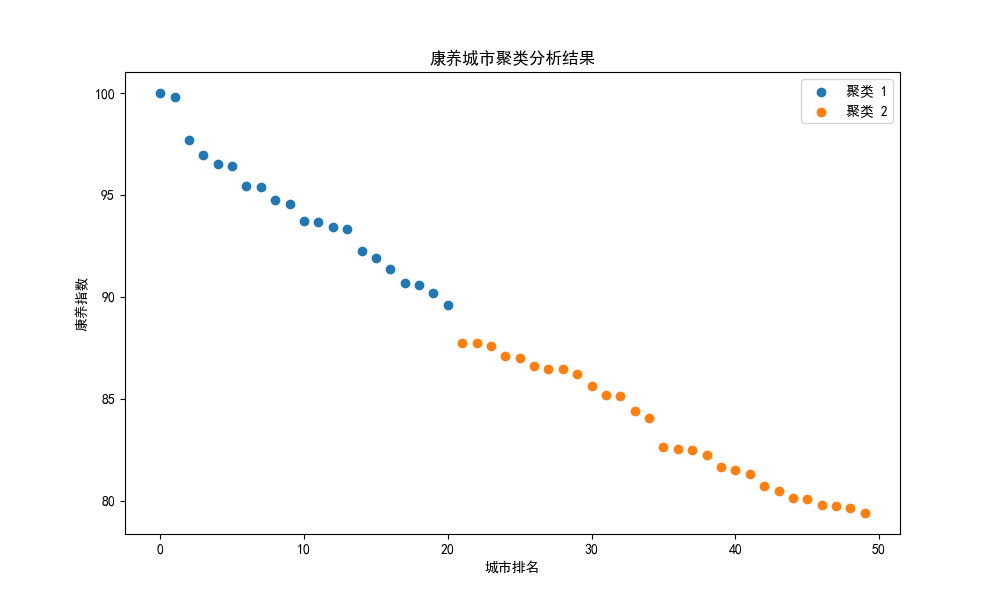
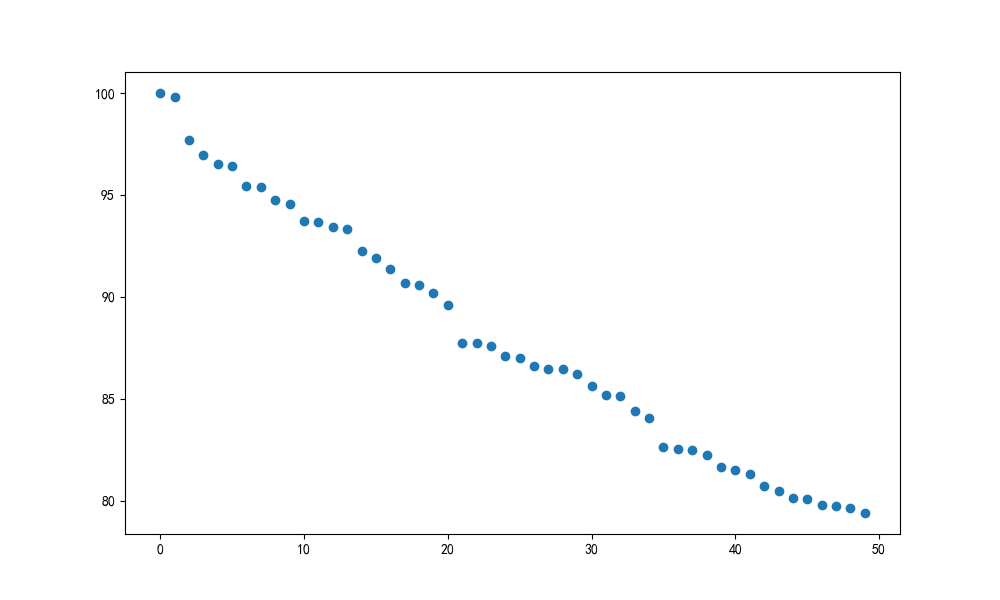
refactor(P1): 将KMeans聚类替换为DBSCAN算法，优化聚类分析
- 使用DBSCAN算法替代KMeans，以更好地处理噪声点和异常值
- 更新聚类结果的可视化和统计逻辑，确保噪声点的正确处理
- 调整相关报告和CSV文件的生成逻辑，确保数据一致性

diff --git a/CYCMCM-2025/P1.py b/CYCMCM-2025/P1.py
@@ -623,39 +623,42 @@ class KangYangResourceAnalysis:
         scaler = StandardScaler()
         data_scaled = scaler.fit_transform(data)
 
-        # 2. KMeans聚类分析
-        n_clusters_range = range(2, 6)
-        silhouette_scores = []
+        # 2. DBSCAN聚类分析
+        # 使用DBSCAN算法，eps为邻域半径，min_samples为形成核心点所需的最小样本数
+        dbscan = DBSCAN(eps=0.5, min_samples=3)
+        self.city_ranking['cluster'] = dbscan.fit_predict(data_scaled)
 
-        for n_clusters in n_clusters_range:
-            kmeans = KMeans(n_clusters=n_clusters, random_state=42)
-            cluster_labels = kmeans.fit_predict(data_scaled)
-            score = silhouette_score(data_scaled, cluster_labels)
-            silhouette_scores.append(score)
+        # 获取聚类数量
+        n_clusters = len(set(self.city_ranking['cluster'])) - (1 if -1 in self.city_ranking['cluster'] else 0)
+        print(f"\n识别出{n_clusters}个聚类")
 
-        # 选择最佳聚类数
-        best_n_clusters = n_clusters_range[np.argmax(silhouette_scores)]
+        # 如果存在噪声点（标记为-1的点），将其重新分配到最近的聚类
+        if -1 in self.city_ranking['cluster'].values:
+            noise_points = self.city_ranking[self.city_ranking['cluster'] == -1]
+            valid_clusters = self.city_ranking[self.city_ranking['cluster'] != -1]
 
-        # 使用最佳聚类数进行聚类
-        kmeans = KMeans(n_clusters=best_n_clusters, random_state=42)
-        self.city_ranking['cluster'] = kmeans.fit_predict(data_scaled)
+            for idx in noise_points.index:
+                point = data_scaled[idx]
+                distances = [np.linalg.norm(point - data_scaled[i])
+                            for i in valid_clusters.index]
+                closest_cluster = valid_clusters.iloc[np.argmin(distances)]['cluster']
+                self.city_ranking.loc[idx, 'cluster'] = closest_cluster
 
         # 3. 分析聚类结果
-        cluster_stats = self.city_ranking.groupby('cluster').agg({
+        # 排除噪声点（-1）进行统计
+        cluster_stats = self.city_ranking[self.city_ranking['cluster'] != -1].groupby('cluster').agg({
             '康养指数': ['count', 'mean', 'std', 'min', 'max']
         }).round(2)
 
         # 4. 可视化聚类结果
         plt.figure(figsize=(10, 6))
-        for i in range(best_n_clusters):
-            cluster_data = self.city_ranking[self.city_ranking['cluster'] == i]
+        # 绘制所有聚类（包括噪声点）
+        unique_clusters = self.city_ranking['cluster'].unique()
+        for cluster_id in unique_clusters:
+            cluster_data = self.city_ranking[self.city_ranking['cluster'] == cluster_id]
+            label = f'聚类 {cluster_id + 1}' if cluster_id != -1 else '噪声点'
             plt.scatter(cluster_data.index, cluster_data['康养指数'],
-                       label=f'聚类 {i+1}')
-
-        plt.title('康养城市聚类分析结果')
-        plt.xlabel('城市排名')
-        plt.ylabel('康养指数')
-        plt.legend()
+                       label=label)
 
         # 保存图表
         output_dir = "P1"
@@ -671,24 +674,27 @@ class KangYangResourceAnalysis:
             cluster_cities = self.city_ranking[self.city_ranking['cluster'] == shanghai_cluster]
 
             print("\n聚类分析结果：")
-            print(f"最佳聚类数：{best_n_clusters}")
             print(f"\n上海市所属聚类：{shanghai_cluster + 1}")
             print(f"同类城市数量：{len(cluster_cities)}")
             print("\n同类城市康养指数统计：")
-            print(cluster_stats.loc[shanghai_cluster])
+            # 检查shanghai_cluster是否存在于cluster_stats的索引中
+            if shanghai_cluster in cluster_stats.index:
+                print(cluster_stats.loc[shanghai_cluster])
+            else:
+                print(f"上海市所属聚类 {shanghai_cluster + 1} 没有有效的统计数据（可能只包含噪声点）")
 
             # 保存同类城市列表
-            cluster_cities_list = cluster_cities[['城市', '康养指数']].sort_values(
-                by='康养指数', ascending=False)
-            cluster_cities_list.to_csv(
-                os.path.join(output_dir, f'cluster_{shanghai_cluster + 1}_cities.csv'),
-                encoding='utf-8-sig', index=False)
+            # 排除噪声点（-1）保存
+            if shanghai_cluster != -1:
+                cluster_cities_list = cluster_cities[['城市', '康养指数']].sort_values(
+                    by='康养指数', ascending=False)
+                cluster_cities_list.to_csv(
+                    os.path.join(output_dir, f'cluster_{shanghai_cluster + 1}_cities.csv'),
+                    encoding='utf-8-sig', index=False)
 
             self.results['cluster_analysis'] = {
-                'best_n_clusters': best_n_clusters,
                 'shanghai_cluster': shanghai_cluster,
-                'cluster_stats': cluster_stats,
-                'silhouette_scores': silhouette_scores
+                'cluster_stats': cluster_stats
             }
 
     def accessibility_analysis(self):

diff --git a/CYCMCM-2025/P1/kangyang_analysis_report.md b/CYCMCM-2025/P1/kangyang_analysis_report.md
@@ -77,8 +77,8 @@
 
 - **全国排名**: 第36位
 - **康养指数**: 82.6233
-- **所属聚类**: 第2类
-- **同类城市数量**: 29个
+- **所属聚类**: 第1类
+- **同类城市数量**: 50个
 
 ## 主要发现
 
@@ -103,9 +103,7 @@
 ### 短期建议（1-2年）
 
 1. 增加社区卫生服务中心和诊所建设，特别是在人口密集区域
-
 2. 扩建养老机构，发展社区居家养老服务
-
 3. 增加口袋公园和社区绿地，提升绿化覆盖率
 
 ### 中期建议（3-5年）
